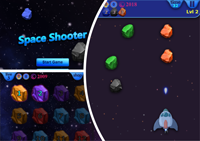
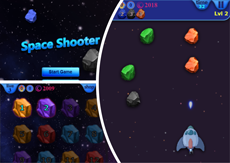
add game SpaseShooterBlock

diff --git a/styles/style.css b/styles/style.css
@@ -2,29 +2,32 @@ body {
     margin: 0px;
     width: 100%;
     height: 100%;
-    background-color: rgb(56, 56, 56);
+    background-color: rgb(27, 27, 27);
 }
 
 .mainBlock {
     position: relative;
     display: grid;
-    top: 0px;
-    left: 0px;
-    width: 100vw;
+    padding: 2px;
+    min-height: 99vh;
+    grid-template-columns: minmax(min-content, 90vw);
+    grid-template-rows: max-content max-content auto max-content;
     grid-template-areas:
         "header"
-        "meny "
-        "content"
+        "meny"
+        "contentGames"
         "info";
     justify-content: center;
-    justify-items: stretch;
-    align-content: center;
+    justify-items: center;
+    align-items: start;
+    align-content: stretch;
 }
 
 .header {
     position: relative;
     display: grid;
     grid-area: header;
+    width: 100%;
     top: 0px;
     left: 0px;
     background-color: #cdd6ff;
@@ -41,7 +44,8 @@ body {
     padding: 5px;
     top: 0px;
     left: 0px;
-    color: black;
+    color: #3d0a2d;
+    font-weight: bold;
     font-size: 16px;
     text-align: center;
 }
@@ -62,45 +66,57 @@ body {
 
 .content {
     position: relative;
-    grid-area: content;
-    height: 80vh;
+    width: 100%;
+    height: 99%;
+    grid-area: contentGames;
     display: grid;
-    padding: 10px;
-    background-color: #a2b3ff;
+    padding: 10px 0px 10px;
+    background: linear-gradient(180deg, #e7ecff, #b5c4ff);
     border: 0px solid;
-    border-radius: 0px 0px 14px 14px;
-    justify-content: center;
+    grid-gap: 12px;
+    grid-template-columns: repeat(auto-fit, 220px);
+    grid-template-rows: repeat(auto-fill, 185px);
     justify-items: center;
-    align-content: space-between;
+    justify-content: center;
+    align-content: stretch;
+    align-items: start;
 }
 
 .headerGamesText {
     position: relative;
-    left: 0px;
+    padding: 5px;
     top: 0px;
-    font-size: 20px;
+    left: 0px;
+    color: #3d0a2d;
     font-weight: bold;
-    color: #430369;
+    font-size: 16px;
+    text-align: center;
 }
 
-.spaseShoterBlock {
+.spaseShooterBlock {
     position: relative;
     display: flex;
-    background-color: #b4eeff;
     border: 0px solid;
-    border-radius: 5px;
+    border-radius: 15px;
+    background: linear-gradient(#4700ff26, #6b83d9);
     flex-direction: column;
     justify-content: center;
     align-items: center;
     flex-wrap: nowrap;
     padding: 5px;
 }
+.logoGame{
+    position: relative;
+}
+
+.spaseShoterBlock:hover {
+    background: linear-gradient(#ff000026, #6b83d9);
+}
 
 .spaceShooterCollages {
     position: relative;
-    border-radius: 5px;
-    padding: 5px;
-
+    border-radius: 15px;
+    padding: 6px;
 }
 
 .playSpaceShooterButton {
@@ -109,5 +125,39 @@ body {
     height: 25px;
     border: 2px solid #4a2261;
     background-color: #b67fd7;
+    font-size: large;
+    font-weight: bold;
+    color: #120669;
     border-radius: 5px;
+    filter: drop-shadow(1px 1px 0px black);
+}
+.playSpaceShooterButton:hover {
+    background: linear-gradient(#ff000026, #6b83d9);
+    filter: drop-shadow(1px 1px 0px rgb(247, 141, 141));
+}
+
+.infoBlock {
+    position: relative;
+    grid-area: info;
+    display: flex;
+    width: 100%;
+    height: 25px;
+    border-radius: 0px 0px 14px 14px;
+    background-color: #6c80db;
+    border: 0px solid;
+    flex-direction: row;
+    justify-content: center;
+    align-items: center;
+    flex-wrap: nowrap;
+}
+
+.infoText {
+    position: relative;
+    padding: 5px;
+    top: 0px;
+    left: 0px;
+    color: #3d0a2d;
+    font-weight: bold;
+    font-size: 16px;
+    text-align: center;
 }

diff --git a/index.html b/index.html
@@ -28,13 +28,19 @@
 
         <content class="content">
 
-            <article class="spaseShoterBlock">
+            <article class="spaseShooterBlock">
+                <img class="logoGame" src="./assets/images/spaceShooterLogo.png">
                 <img class="spaceShooterCollages" src="./assets/images/spaceShooterCollages.png">
                 <button name="playSpaceShooter" class="playSpaceShooterButton">PLAY</button>
                 <!-- <audio controls src="./assets/audio/mainMeny.ogg"></audio> -->
             </article>
 
+
         </content>
+
+        <info class="infoBlock">
+            <text class="infoText">contact </text>
+        </info>
         <!-- <img </div> -->
         <!-- <div id="scene" class="scene" ></div> -->
         <!-- <div class="fonts"></div> -->
